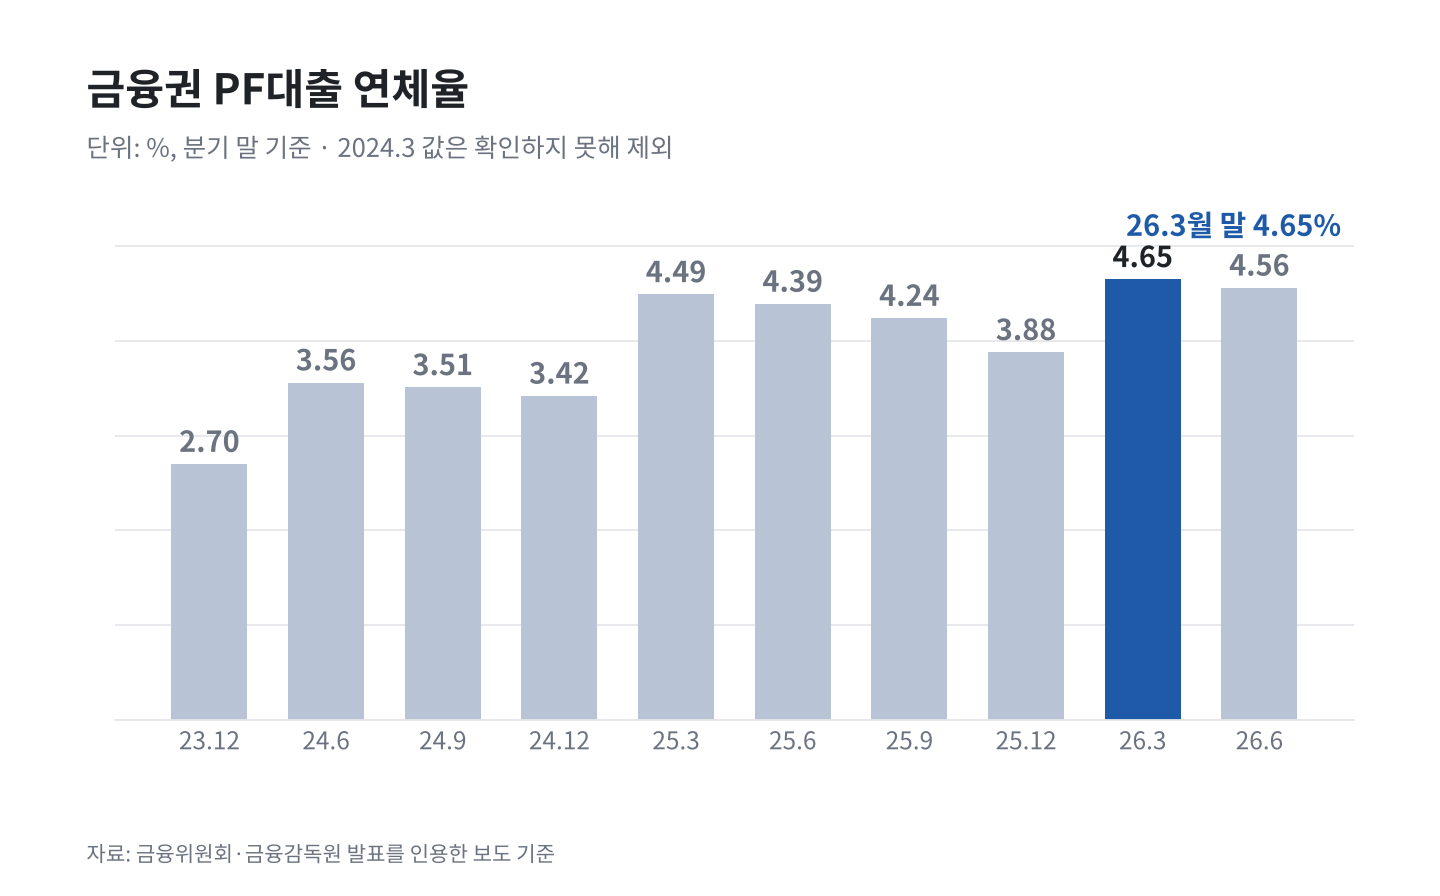
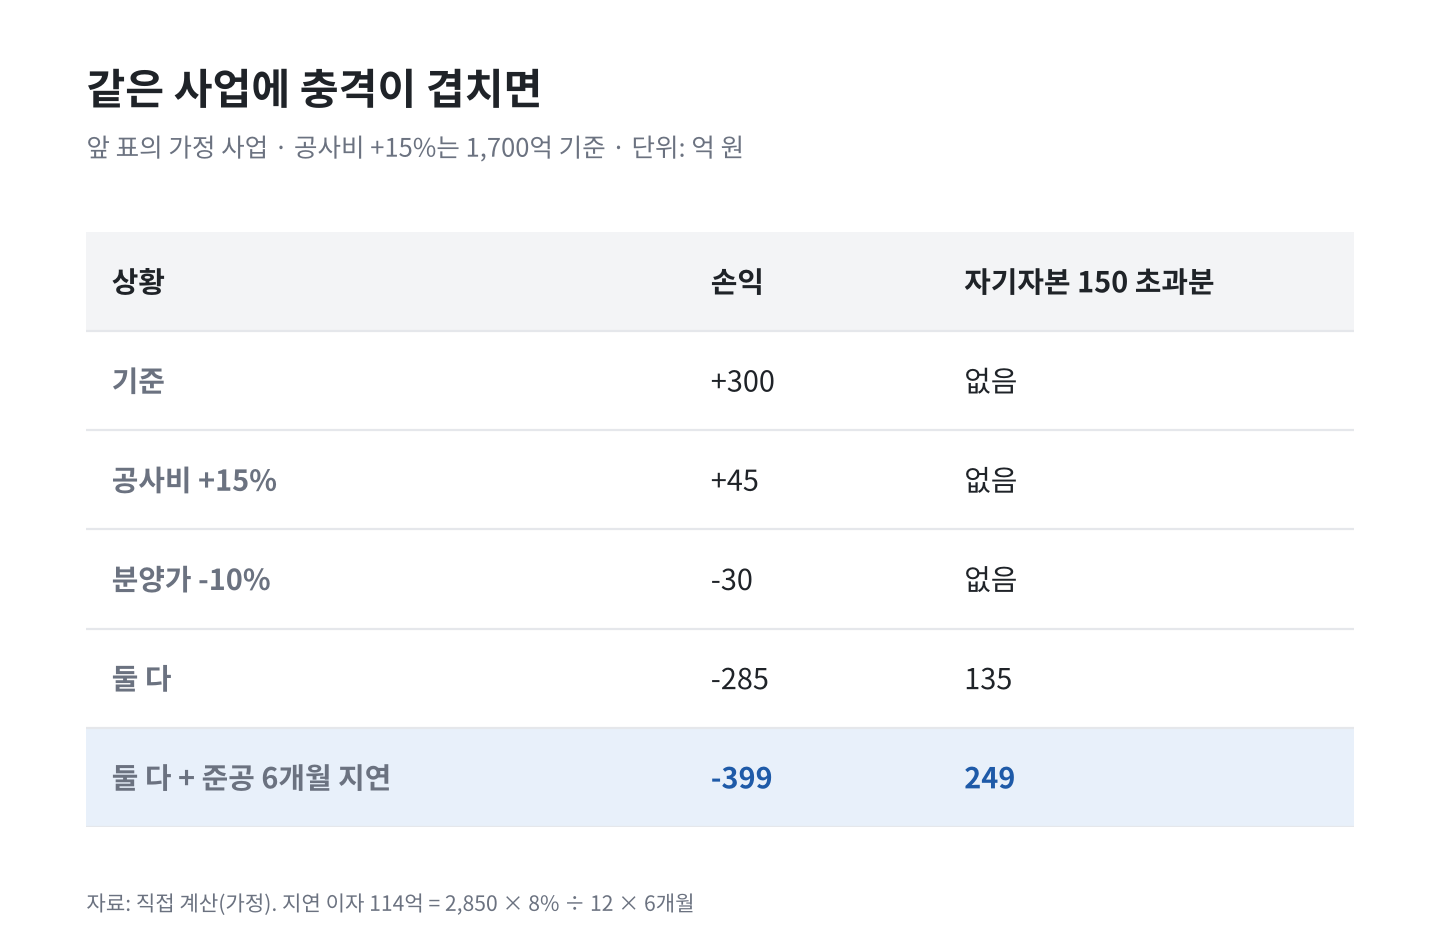
PF post: cut to ~half length, 5 images
Claude-Session: https://claude.ai/code/session_011EpcWSU3z1DXi4f3c2KiAh

diff --git a/posts/2026-10-18-pf-delinquency/index.html b/posts/2026-10-18-pf-delinquency/index.html
@@ -10,65 +10,38 @@ h1{font-size:26px;line-height:1.4;}
 h2{font-size:20px;margin-top:40px;}
 blockquote{margin:16px 0;padding:8px 16px;border-left:3px solid #999;color:#444;}
 img{max-width:100%;height:auto;display:block;}
-table{border-collapse:collapse;width:100%;}
 </style>
 </head>
 <body>
 <h1>PF대출 연체율 4%대, 서울 집값과는 무슨 관계일까</h1>
 
 <blockquote>
-<p>금융위원회가 2026년 10월 13일 발표한 6월 말 기준 금융권 PF대출 잔액은 115조 8천억 원이다. 2년 반 만에 증가로 돌아섰다.</p>
-<p>연체율은 4.56%로 3월 말(4.65%)보다 0.09%p 내렸지만, 상호금융만 보면 5.51%에서 10.79%로 두 배가 됐다.</p>
-<p>서울 아파트값은 86주 연속 오르는데 PF는 왜 흔들릴까. 답은 지역에 있다.</p>
+<p>금융위원회가 2026년 10월 13일 발표한 6월 말 기준 금융권 PF대출은 115조 8천억 원, 연체율은 4.56%다. 서울 아파트값은 86주 연속 오르는데 PF는 왜 흔들릴까.</p>
 </blockquote>
 
-<p>집은 짓기 전에 돈이 먼저 나간다. 땅을 사고, 허가를 받고, 공사를 하는 몇 년 동안 쓸 돈을 빌려 주는 대출이 PF(프로젝트 파이낸싱)대출이다. 요즘 뉴스에서 이 대출의 연체율이 자주 나오는데, PF가 정확히 무엇인지 모르고 숫자만 보면 감이 오지 않는다.</p>
-<p>이 글은 PF대출이 무엇인지부터 차례로 짚는다. 그다음 연체가 언제부터 늘었는지, 왜 이렇게 됐는지, 정부가 무엇을 바꿨는지를 본다. 끝에서는 서울 집값과 PF 부실을 한 줄에 놓고 생각해 볼 질문을 던진다.</p>
+<p>집은 짓기 전에 돈이 먼저 나간다. 땅을 사고 공사를 하는 몇 년 동안 쓸 돈을 빌려 주는 대출이 PF(프로젝트 파이낸싱)대출이다. 이 글은 PF가 무엇인지, 연체가 언제부터 왜 늘었는지를 본 뒤 서울 집값과 연결해 질문 하나를 던진다.</p>
 
-<h2>PF대출은 무엇이고, 누가 빌릴까</h2>
-<p>주택담보대출은 집과 빌리는 사람의 소득을 보고 빌려준다. PF는 다르다. 아직 짓지도 않은 아파트가 나중에 팔려서 들어올 분양대금이 갚을 돈이다. 담보가 사업의 미래 현금흐름이라서, 사업이 잘되면 돌려받는다는 믿음이 바탕이다.</p>
-<p>등장인물은 넷이다. 사업을 기획하고 땅을 사는 시행사, 집을 짓는 시공사, 돈을 빌려주는 금융회사, 분양대금을 관리하고 때로는 공사를 끝낼 책임까지 지는 신탁사다.</p>
-<p>단계는 둘로 나뉜다. 시행사가 땅을 사고 인허가를 받는 동안 쓰는 대출이 브릿지론이다. 사업 초기라 위험이 크고 금리가 높아서 주로 저축은행 같은 제2금융권이 빌려준다. 인허가가 나면 본PF로 갈아타 브릿지론을 갚고 공사비를 댄다. 은행 같은 제1금융권은 보통 이 단계에 들어온다. 아파트는 먼저 분양하기 때문에 계약금과 중도금이 공사 중에 들어오고, 입주 때 잔금으로 마무리된다.</p>
-<p>숫자로 보자. 서울 외곽에서 500세대를 짓는 사업을 가정한다. 세대당 분양가를 6억 6천만 원으로 잡으면 분양수입은 3,300억 원이다. 땅 900억 원, 공사비 1,700억 원, 금융비용 등 기타 400억 원을 합친 총사업비는 3,000억 원이다. 시행사 자기자본이 총사업비의 5%라면 150억 원이고, 나머지 2,850억 원을 빌린다. 금리를 연 8%로 가정하면 이자만 한 달에 19억 원이다(2,850억 × 8% ÷ 12). 금융위가 설명한 국내 PF 사업의 시행사 자기자본비율 3~5%(보도 기준) 범위에 맞춘 가정이다.</p>
+<h2>PF대출은 무엇일까</h2>
+<p>주택담보대출은 집과 소득을 보고 빌려준다. PF는 아직 짓지도 않은 아파트가 나중에 팔려서 들어올 분양대금이 갚을 돈이다. 사업이 잘되면 돌려받는다는 믿음이 담보인 셈이다. 시행사가 땅을 사는 초기 단계의 대출이 브릿지론, 인허가 뒤 공사비를 대는 대출이 본PF다.</p>
+<p>숫자로 보자. 500세대를 짓는 사업을 가정한다. 세대당 분양가가 6억 6천만 원이면 분양수입은 3,300억 원이고 총사업비는 3,000억 원이다. 시행사 자기자본이 5%인 150억 원이면 2,850억 원을 빌린다. 금리가 연 8%면 이자만 한 달에 19억 원이다(2,850억 × 8% ÷ 12). 금융위가 설명한 국내 PF 사업의 시행사 자기자본비율 3~5%(보도 기준)에 맞춘 가정이다.</p>
 <img src="https://angryoonpark-source.github.io/blog-images/posts/2026-10-18-pf-delinquency/01.png" width="720" alt="가정한 아파트 사업의 돈 구조">
 
-<h2>지금 규모는 얼마나 될까</h2>
-<p>금융위 발표를 인용한 보도에 따르면 6월 말 금융권 PF대출 잔액은 115조 8천억 원으로 3월 말보다 3천억 원 늘었다. 2분기 신규 취급액도 전 분기보다 늘었다고 한다.</p>
-<img src="https://angryoonpark-source.github.io/blog-images/posts/2026-10-18-pf-delinquency/02.png" width="720" alt="금융권 PF대출 잔액">
-<p>연체율은 4.56%로 3월 말보다 0.09%p 내렸다. 평균만 보면 한숨 돌린 듯하지만 업권별로는 다르다. 상호금융의 PF 연체율은 3월 말 5.51%에서 6월 말 10.79%로 5.28%p 올랐다. 땅을 담보로 한 대출(토지담보대출)은 중소금융권 연체율이 32.20%라는 보도도 나왔다.</p>
+<h2>연체는 언제부터, 왜 늘었을까</h2>
+<p>금융권 PF 연체율은 2023년 12월 말 2.70%에서 2025년 3월 말 4.49%로 뛰었다. 2025년 12월 말에는 3.88%까지 내려갔는데, 금융위는 경매·공매 등 부실 사업장 정리를 이유로 들었다. 2026년 3월 말 4.65%로 다시 올랐고 6월 말은 4.56%다.</p>
+<img src="https://angryoonpark-source.github.io/blog-images/posts/2026-10-18-pf-delinquency/02.png" width="720" alt="금융권 PF대출 연체율">
+<p>원인은 금리, 공사비, 미분양이다. 기준금리는 2021년 8월 연 0.5%에서 2022년 11월 3.25%까지 올랐고, 2022년 하반기 레고랜드 사태로 자금시장이 얼어붙었다. 건설공사비지수는 2020년보다 34.4% 올랐다는 보도가 있다. 평균은 한숨 돌린 듯해도 상호금융은 다르다. PF 연체율이 3월 말 5.51%에서 6월 말 10.79%로 뛰었다.</p>
 <img src="https://angryoonpark-source.github.io/blog-images/posts/2026-10-18-pf-delinquency/03.png" width="720" alt="상호금융 PF대출 연체율">
-<p>연체율은 연체액을 대출 잔액으로 나눈 값이다. 부실 사업장을 정리해 잔액이 줄면, 연체액이 그대로여도 비율은 오른다. 금융위도 2025년 9월 말 토지담보대출 연체율이 오른 이유로 잔액(분모) 감소와 연체액(분자) 증가를 함께 들었다. 연체율 하나로 좋아졌다, 나빠졌다를 단정하기 어려운 이유다.</p>
 
-<h2>연체는 언제부터 늘었을까</h2>
-<p>금융권 PF 연체율은 2023년 12월 말 2.70%였다. 2024년에는 3%대 중반에서 움직이다가 2025년 3월 말 4.49%로 뛰었고, 그해 12월 말에는 3.88%까지 내려갔다. 금융위는 경매·공매와 수의계약, 상각 등 부실 사업장 정리를 하락 요인으로 설명했다. 그러다 2026년 3월 말 4.65%로 다시 올랐다. 2016년 3분기 말(4.95%) 이후 가장 높다는 보도가 나왔고, 금융위는 계절적 요인과 건설원가, 시중금리 상승을 이유로 들었다. 6월 말에는 4.56%다.</p>
-<img src="https://angryoonpark-source.github.io/blog-images/posts/2026-10-18-pf-delinquency/04.png" width="720" alt="금융권 PF대출 연체율">
-<p>그 앞에 사건이 있었다. 2021년 8월 연 0.5%였던 기준금리는 2022년 11월 3.25%까지 올랐다. 2022년 하반기에는 레고랜드 사태로 지방정부 보증마저 믿기 어렵다는 분위기가 번지며 자금시장이 얼어붙었고, 정부는 그해 10월 50조 원 규모의 유동성 대책을 냈다. 2023년 12월에는 태영건설이 워크아웃을 신청했다. 자기자본 대비 PF 보증이 3조 7천억 원으로 과도하다는 지적이 따랐다.</p>
-<img src="https://angryoonpark-source.github.io/blog-images/posts/2026-10-18-pf-delinquency/05.png" width="720" alt="PF 부실까지의 흐름">
+<h2>자기자본 5%는 얼마나 얇을까</h2>
+<p>앞의 가정 사업에서 공사비가 15% 오르고 분양가가 10% 내리면 수입은 2,970억 원, 비용은 3,255억 원이 되어 285억 원 적자다. 준공이 6개월 늦어 이자 114억 원이 더 붙으면 적자는 399억 원이다. 자기자본 150억 원을 넘는 249억 원은 빌려준 쪽이 떠안을 수 있다. 실제로는 시공사 보증 등으로 손실을 나누는 방식이 사업마다 달라 단순화한 계산이다.</p>
+<img src="https://angryoonpark-source.github.io/blog-images/posts/2026-10-18-pf-delinquency/04.png" width="720" alt="같은 사업에 충격이 겹치면">
+<p>그래서 금융위는 시행사 자기자본비율을 2027년부터 단계적으로 20%까지 올리기로 했다. 다만 20%는 600억 원이어서 사업 문턱이 높아진다. 10월 13일에는 주거용 적용을 2년 미뤘다.</p>
 
-<h2>왜 이렇게 됐을까</h2>
-<p>한 가지가 아니라 네 가지가 겹쳤다.</p>
-<p>첫째는 금리다. 앞의 가정 사업에서 연 8%면 이자가 월 19억 원이다. 예정대로 팔리면 감당하지만 분양이 늦어지면 이자가 원금처럼 쌓인다.</p>
-<p>둘째는 공사비다. 건설공사비지수는 2020년을 100으로 잡았을 때 2026년 3월 134.4로, 34.4% 올랐다는 보도가 있다. 같은 땅에 같은 집을 지어도 총사업비가 커졌다.</p>
-<img src="https://angryoonpark-source.github.io/blog-images/posts/2026-10-18-pf-delinquency/06.png" width="720" alt="건설공사비지수">
-<p>셋째는 팔리지 않는 집이다. 국토교통부 발표를 인용한 보도에 따르면 2026년 8월 말 전국 미분양은 6만 9,134호이고, 이 중 4만 9,998호가 지방에 있다. 분양대금으로 대출을 갚는 구조에서 분양이 막히면 상환 재원이 사라진다.</p>
-<img src="https://angryoonpark-source.github.io/blog-images/posts/2026-10-18-pf-delinquency/07.png" width="720" alt="전국 미분양 주택">
-<p>넷째는 얇은 자기자본이다. 앞의 가정 사업에 충격을 하나씩 겹쳐 보자. 공사비가 15% 오르면 1,700억 원이 1,955억 원이 되어 총사업비는 3,255억 원이다. 이익은 300억 원에서 45억 원으로 줄지만 아직 흑자다. 분양가가 10% 내려 수입이 2,970억 원이 되면 30억 원 적자다. 둘이 같이 오면 285억 원 적자이고, 준공이 6개월 늦어 이자 114억 원(2,850억 × 8% ÷ 12 × 6개월)이 더 붙으면 적자는 399억 원이다. 자기자본은 150억 원뿐이어서 초과분 249억 원은 빌려준 쪽이 떠안을 수 있다. 실제로는 시공사 보증과 신탁사의 책임준공 확약 등으로 손실을 나누는 방식이 사업마다 달라서 이 계산은 단순화한 것이다.</p>
-<img src="https://angryoonpark-source.github.io/blog-images/posts/2026-10-18-pf-delinquency/08.png" width="720" alt="같은 사업에 충격이 겹치면">
-
-<h2>정부는 무엇을 바꿨고, 무엇이 남았을까</h2>
-<p>바뀐 것부터 보자. 2024년 11월 관계부처가 시행사 자기자본비율을 20% 수준으로 올리는 방향을 내놨고, 2025년 12월 23일 금융위가 이행계획을 발표했다. 신규 취급분부터 2027년 5%에서 시작해 단계적으로 20%까지 올린다는 내용이다. 2026년 10월 13일에는 주거용 사업장의 자본규제 시행을 2년 미루기로 했다. 신탁사도 2025년 7월부터 책임준공 의무를 지면 신탁 종류와 관계없이 재무 건전성 지표에 위험으로 반영한다.</p>
-<img src="https://angryoonpark-source.github.io/blog-images/posts/2026-10-18-pf-delinquency/09.png" width="720" alt="시행사 자기자본비율 기준">
-<p>득은 분명하다. 앞의 가정 사업에서 자기자본이 20%면 600억 원(3,000억 × 20%)이다. '둘 다 오는' 충격 285억 원은 물론 지연 이자까지 붙은 399억 원도 시행사 자본이 먼저 흡수한다. 실은 문턱이다. 사업을 하려면 600억 원을 내야 하니 사업 수가 줄 수 있고, 신규 공급이 줄 수 있다. 주거용 유예가 주택 공급 위축 우려 때문이라는 보도가 있다.</p>
-<p>남은 숙제로 세 가지를 제안한다. 첫째, 연체율을 낼 때 잔액과 정리 실적을 함께 공개하는 것이다. 분모가 줄어서 오른 것인지, 연체액이 늘어서 오른 것인지 바로 보인다. 둘째, 업권, 사업 단계(브릿지론인지 본PF인지), 지역(수도권인지 지방인지)별 연체율을 정기적으로 내는 것이다. 셋째, 연체율 10%를 넘긴 상호금융의 PF도 은행과 같은 틀로 공개하는 것이다. 모두 내 제안이고 당국이 밝힌 계획이 아니다.</p>
-
-<h2>PF 부실과 서울 집값, 같이 놓고 보면</h2>
-<p>한국부동산원 집계를 인용한 보도에 따르면 서울 아파트 매매가격은 2026년 9월 말 기준 86주 연속 올라, 종전 최장 기록(85주)을 넘었다. 같은 시기에 PF 부실은 다시 늘었고 미분양은 지방에 몰려 있다. 집값이 오르는데 PF는 왜 흔들릴까. 지역이 다르기 때문이다. 주택산업연구원 10월 조사에서 분양전망지수는 서울 105.7, 비수도권 80.2다.</p>
-<img src="https://angryoonpark-source.github.io/blog-images/posts/2026-10-18-pf-delinquency/10.png" width="720" alt="분양전망지수">
-<p>내가 보는 연결 고리는 세 개다. 첫째, 위험은 지방 미분양 사업장에 몰리고 가격 상승은 서울에 몰린다. 둘째, PF를 어떻게 다루느냐에 따라 서울 공급이 달라진다. 보도에 따르면 서울의 8월 인허가는 1만 1,306호로 1년 전의 약 7배였지만, 같은 달 수도권 착공은 전년 동월보다 1.7% 줄었다. 허가가 나도 착공이 따라야 입주가 되고, 착공 자금을 대는 것이 PF다. 셋째, 금리와 공사비는 결국 분양가로 옮겨 간다. 기준금리는 7월과 8월에 두 번 올라 연 3.00%가 됐고, 10월 22일 금융통화위원회가 남아 있다.</p>
-<p>정부는 10월 17일 추가 대출규제는 없다고 밝히며 수도권 착공 목표를 제시했다는 보도가 나왔다. 서울 공급을 늘리려 PF를 풀면 지방 부실이 커질 수 있다. 지방 부실을 막으려 조이면 서울 착공이 줄 수 있다. 한 가지 정책으로 두 지역을 같이 다룰 수 있을까.</p>
-
-<p>다음에 PF 뉴스를 만나면 세 가지를 확인하면 된다. 브릿지론인지 본PF인지, 어느 업권인지, 연체율의 분모(잔액)가 어떻게 달라졌는지다. 이 세 가지를 보면 '4.56%'는 하나의 숫자가 아니다.</p>
-<p>독자에게 묻고 싶다. 서울 집값이 오르는 동안 지방 PF 부실이 쌓이는 것을 하나의 문제로 봐야 할까, 두 개의 문제로 봐야 할까. 그리고 시행사 자기자본을 20%로 올리면 부실은 줄겠지만 공급도 줄 텐데, 어느 쪽을 더 무겁게 봐야 할까.</p>
-<p>이 글은 2026년 10월 18일 기준이며, 작성자의 개인 의견으로 소속 금융기관의 입장과 무관하다. 숫자는 금융위원회, 금융감독원, 국토교통부, 한국부동산원 자료를 인용한 보도를 기준으로 했고 시나리오 계산은 가정에 따른 직접 계산이다. 이 글은 투자 권유가 아니다.</p>
+<h2>서울 집값과는 무슨 관계일까</h2>
+<p>한국부동산원 집계를 인용한 보도에 따르면 서울 아파트값은 9월 말 86주 연속 올랐다. 그런데 미분양은 지방에 몰려 있다. 2026년 8월 말 전국 6만 9,134호 중 4만 9,998호가 지방이다. 분양전망지수도 서울 105.7, 비수도권 80.2로 갈린다(주택산업연구원, 10월). 위험은 지방에, 가격 상승은 서울에 있다.</p>
+<img src="https://angryoonpark-source.github.io/blog-images/posts/2026-10-18-pf-delinquency/05.png" width="720" alt="전국 미분양 주택">
+<p>서울 공급을 늘리려 PF를 풀면 지방 부실이 커질 수 있고, 지방 부실을 막으려 조이면 서울 착공이 줄 수 있다. 한 가지 정책으로 두 지역을 같이 다룰 수 있을까.</p>
+<p>독자에게 묻고 싶다. 서울 집값 상승과 지방 PF 부실은 하나의 문제일까, 두 개의 문제일까. 시행사 자기자본을 20%로 올리면 부실은 줄겠지만 공급도 줄 텐데, 어느 쪽을 더 무겁게 봐야 할까.</p>
+<p>이 글은 2026년 10월 18일 기준 작성자의 개인 의견이며 소속 금융기관의 입장과 무관하다. 숫자는 공공기관 자료를 인용한 보도 기준이고 시나리오는 가정에 따른 직접 계산이다. 투자 권유가 아니다.</p>
 </body>
 </html>
